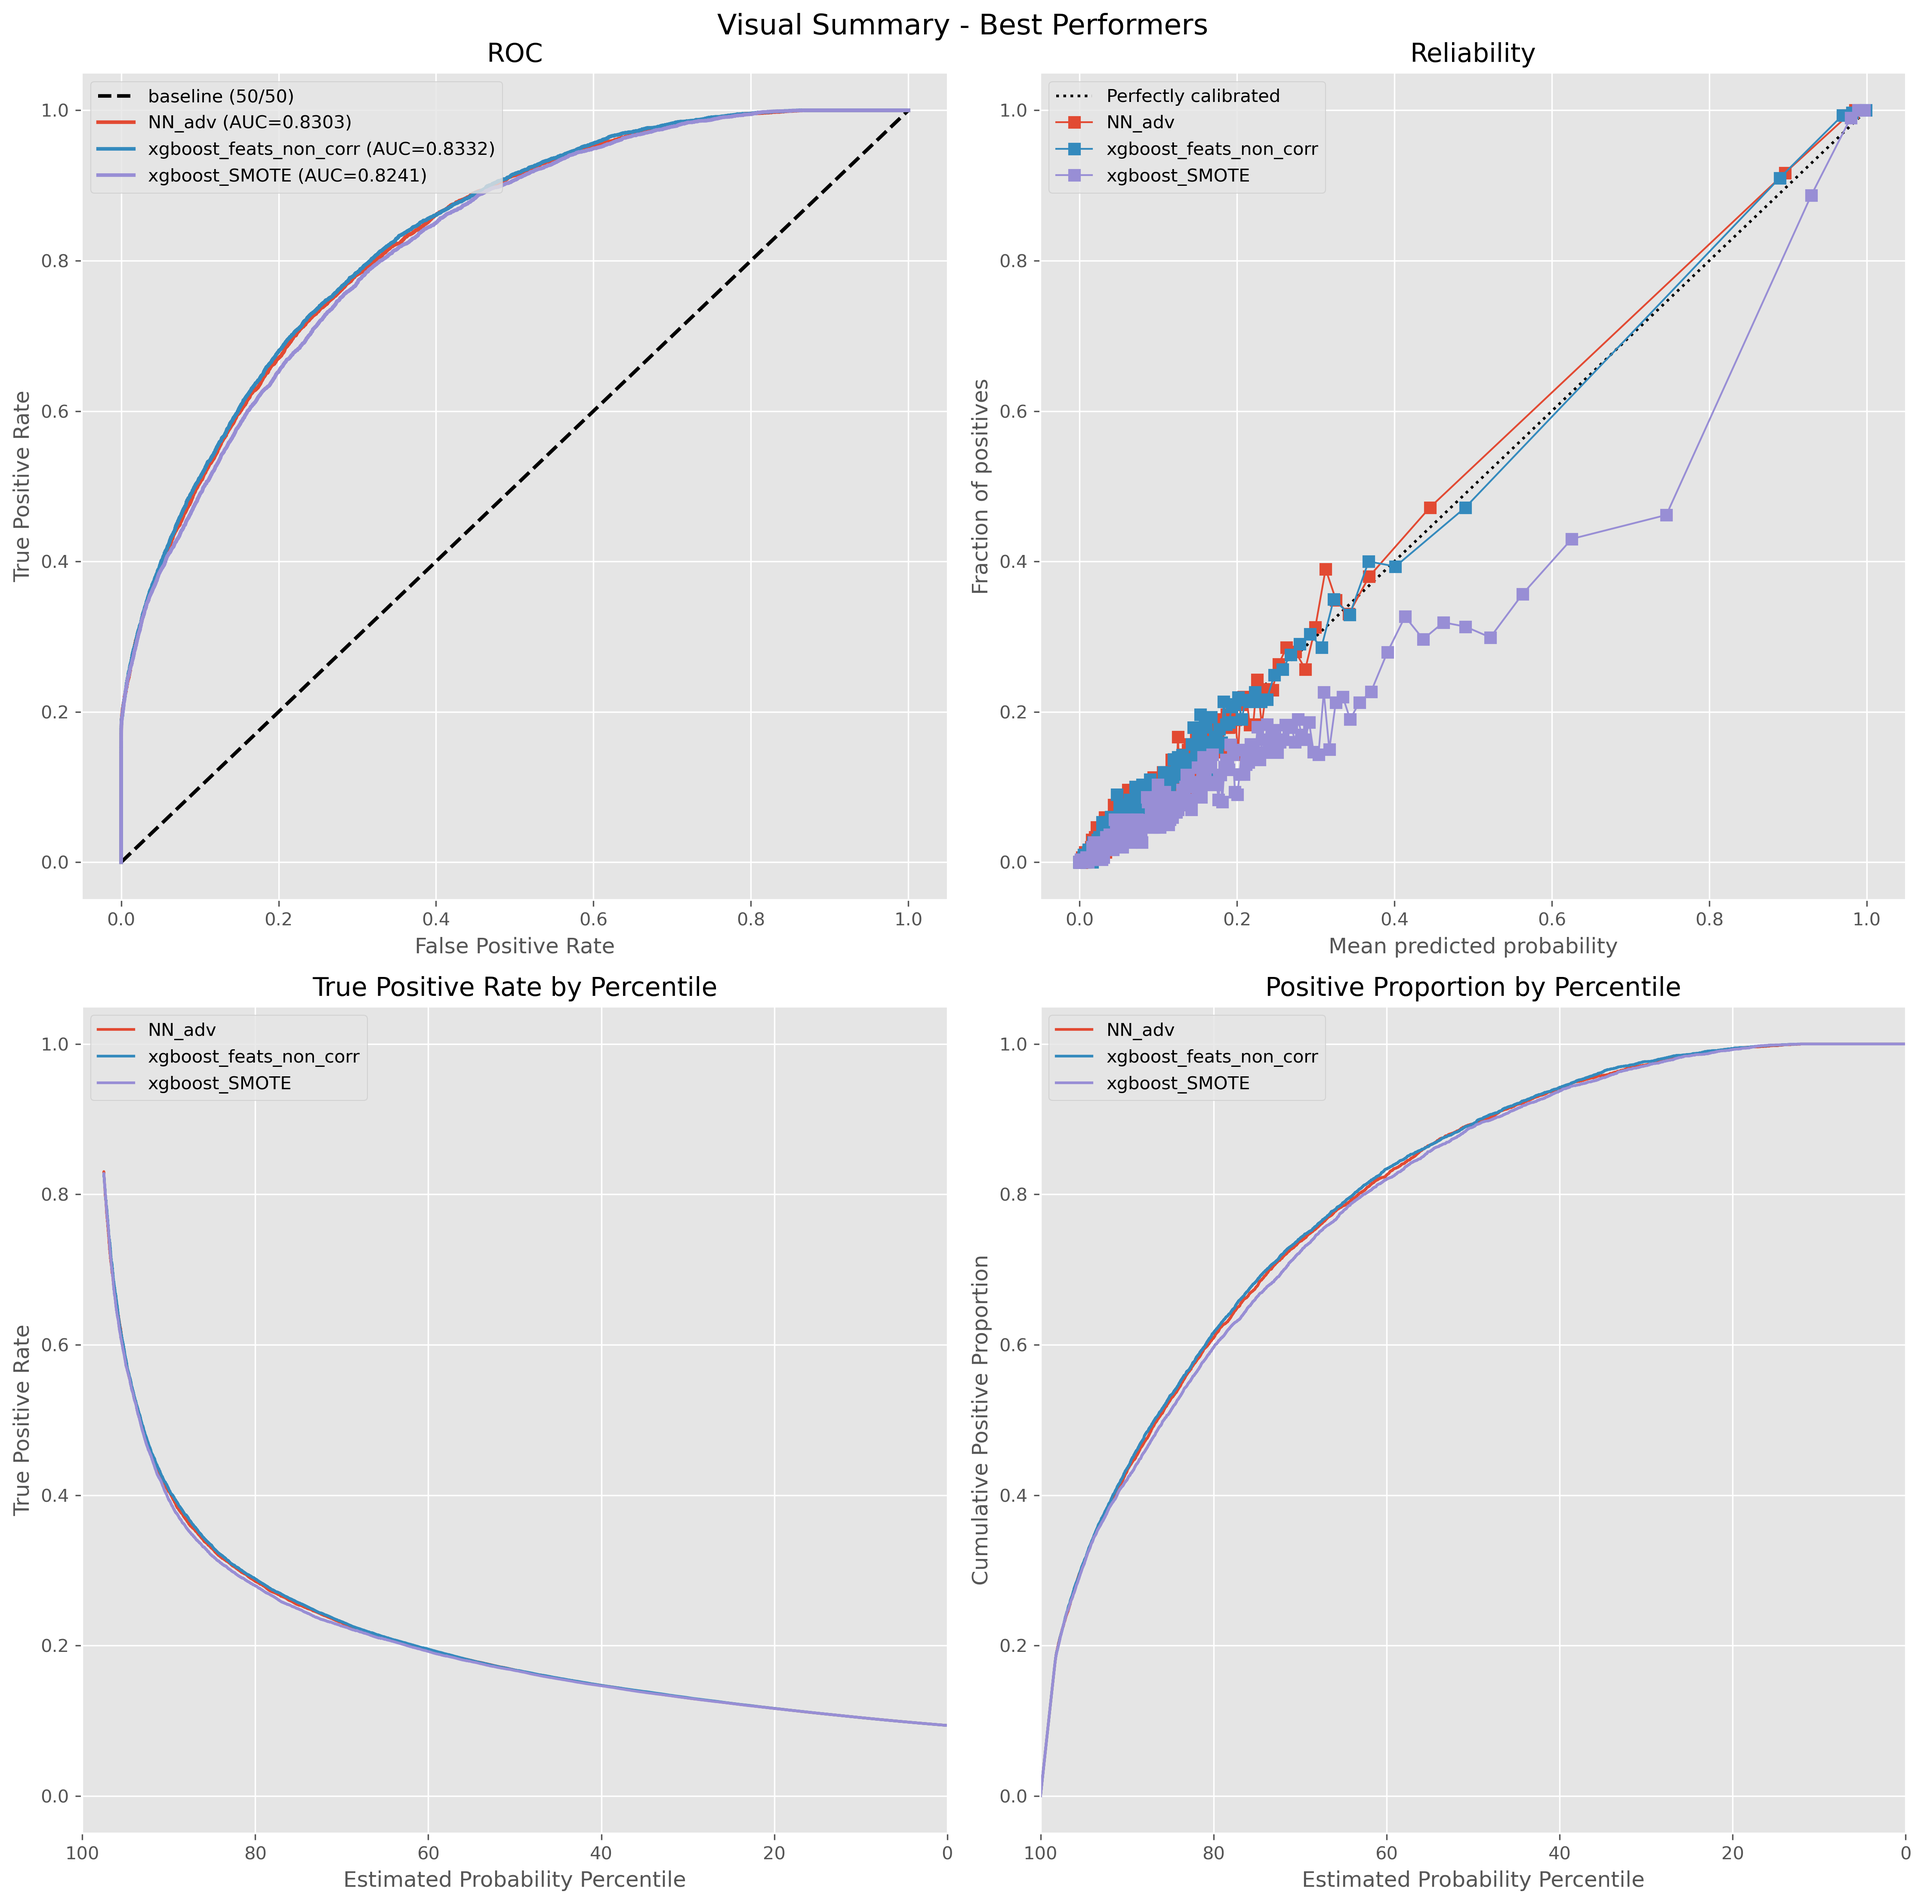
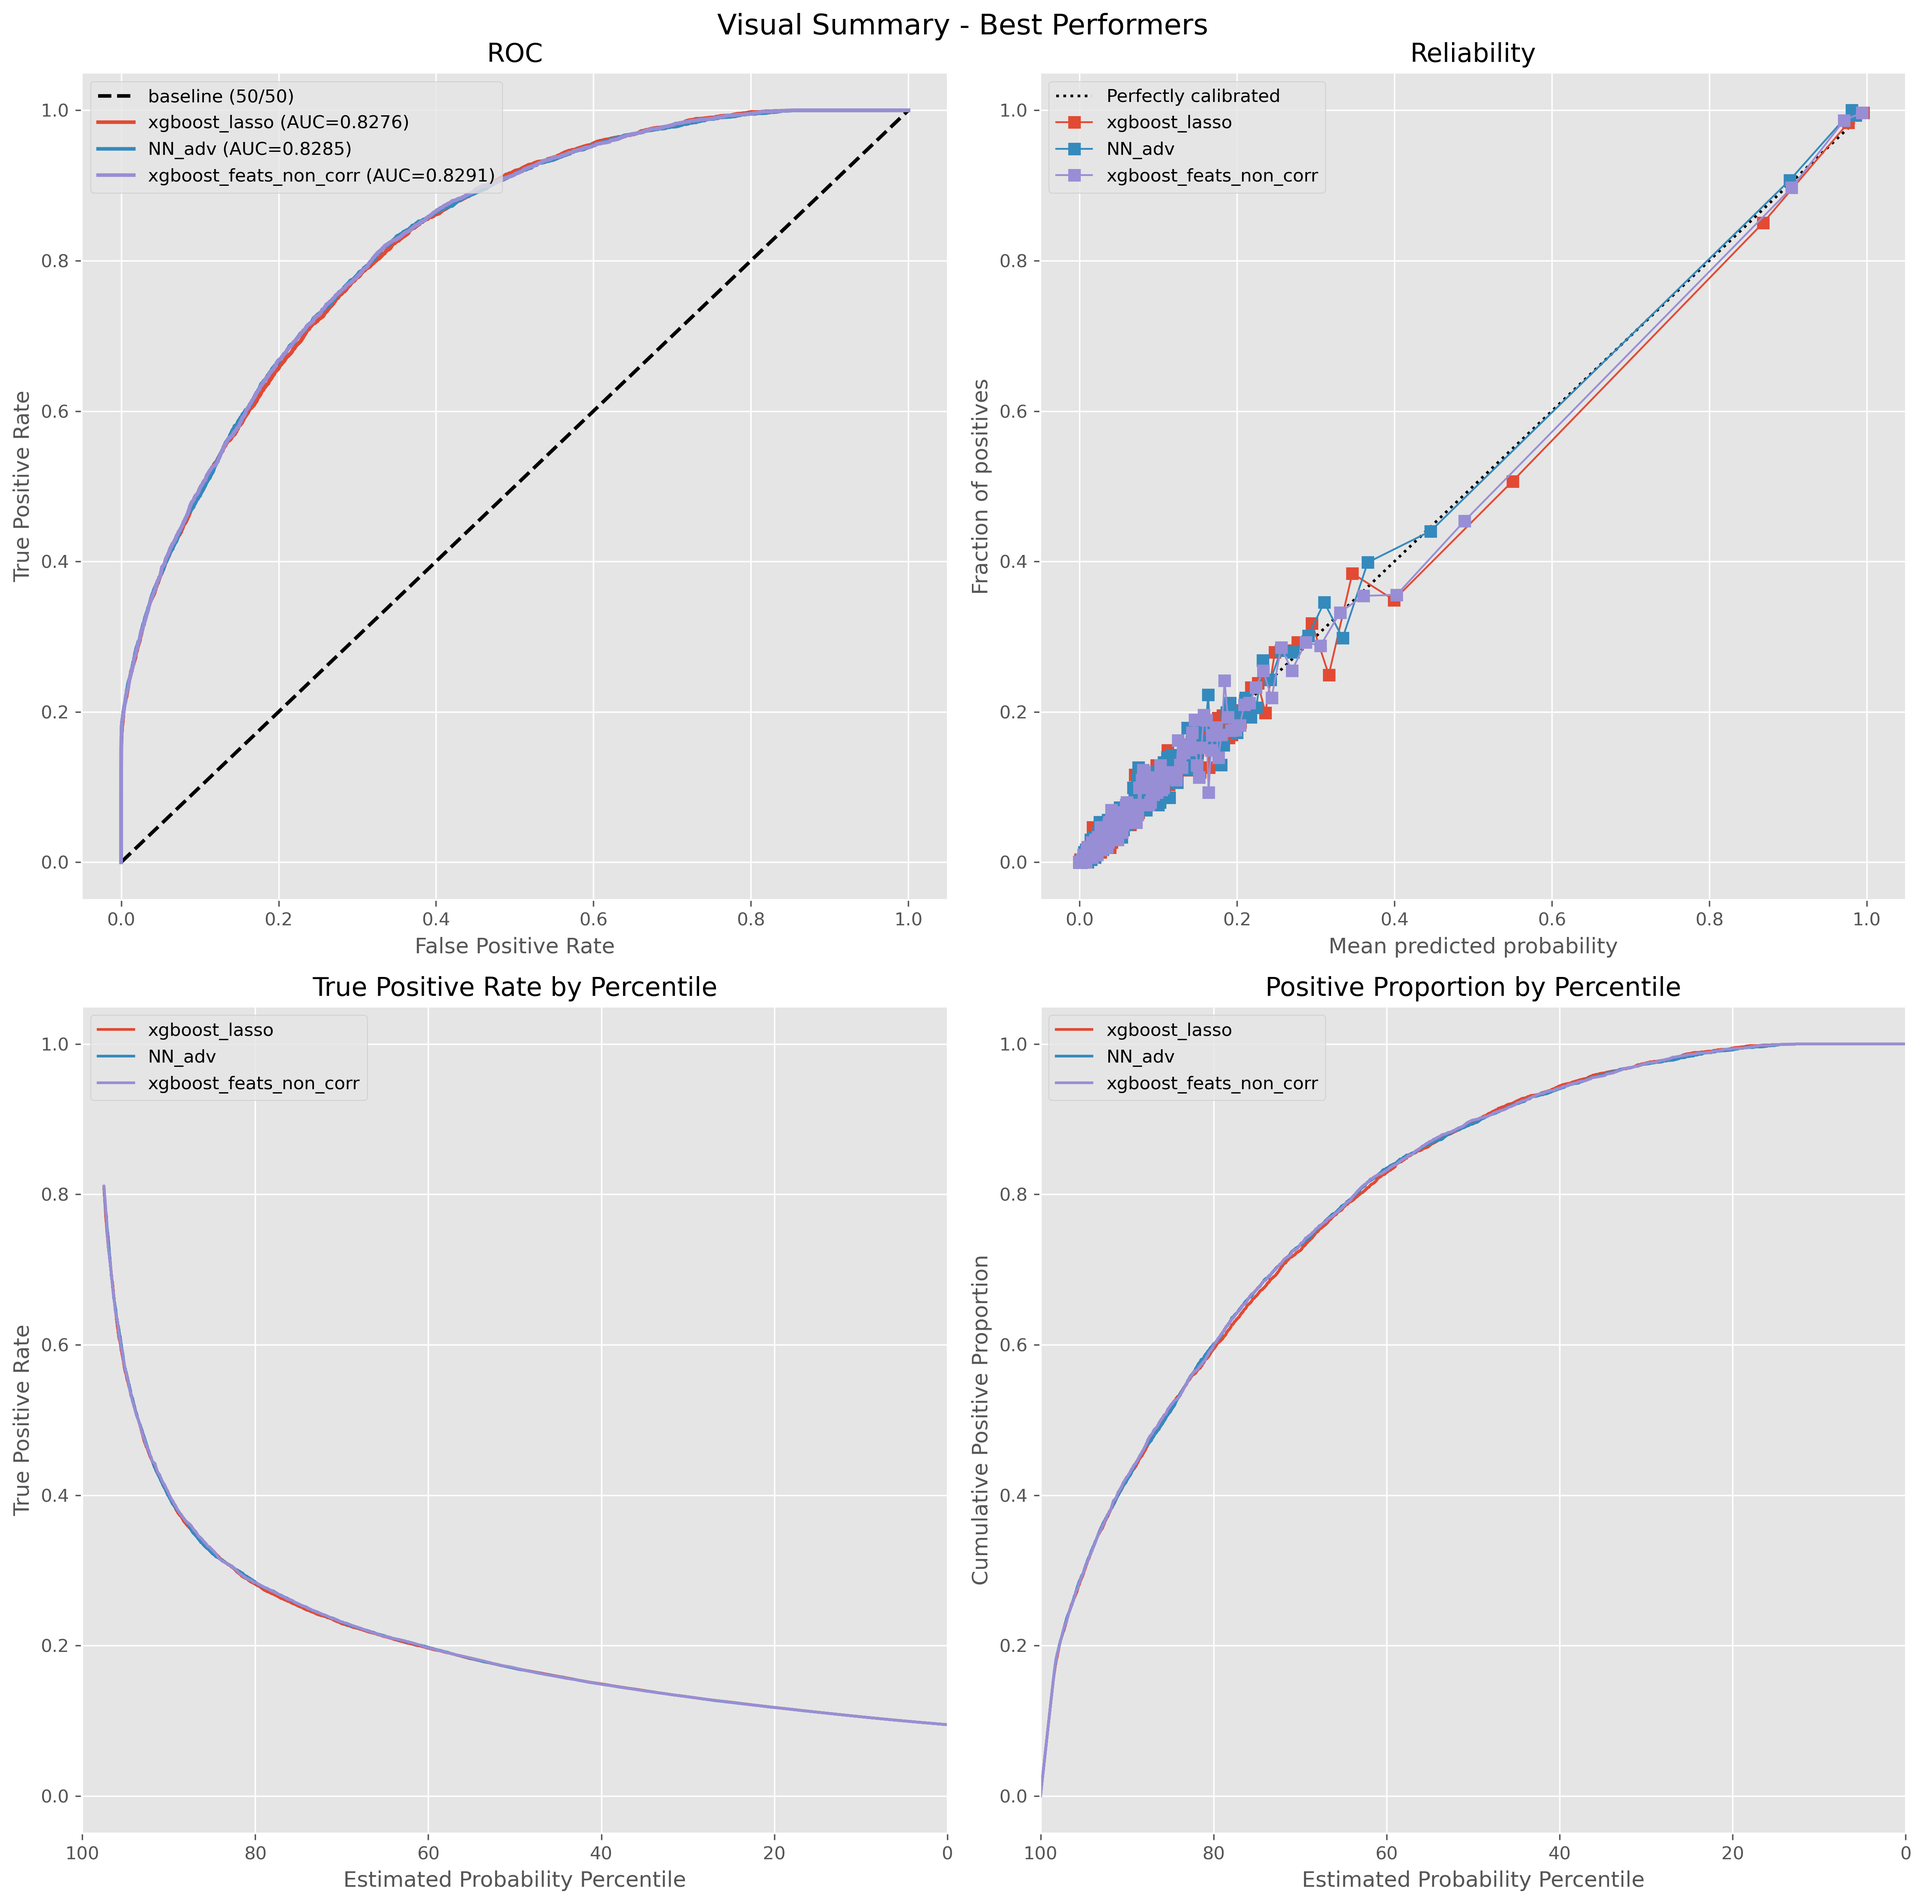
add test set figures and more figures consistency

diff --git a/_posts/2021-11-27-milestone-2.md b/_posts/2021-11-27-milestone-2.md
@@ -233,7 +233,6 @@ The Lasso method selects features based on penalizing and reducing the correspon
 - `is_rebound`
 - `rebound_angle`
 - `is_empty_net`
-- `prev_event_x_coord`
 - `shot_Backhand`
 - `shot_Tip-In`
 - `shot_Wrist Shot`
@@ -350,7 +349,7 @@ The Synthetic Minority Oversampling Technique (SMOTE) was employed to address th
 
 A logistic regression model and a XGBoost model were used to evaluate the effect of the SMOTE method. The feature set that underwent oversampling was the non-highly-correlated feature set established above. The two models trained on the resulting oversampled data were named `lr_SMOTE` and `xgboost_SMOTE`.
 
-The prediction results made by the two models were plotted on the classifier quality chart for comparative performance evaluation. Other than the reliability chart, the remaining charts show that both models were able to achieve a high AUC score and had a comparable performance. The reliability chart shows that the `xgboost_SMOTE` model to be the superior model as it was more aligned with the perfectly calibrated line.
+The prediction results on the validation set made by the two models were plotted on the classifier quality chart for comparative performance evaluation. Other than the reliability chart, the remaining charts show that both models were able to achieve a high AUC score and had a comparable performance. The reliability chart shows that the `xgboost_SMOTE` model to be the superior model as it was more aligned with the perfectly calibrated line.
 
 ![SMOTE Performance](/Images/m2_q6_SMOTE_performance.png)
 *See Appendix for Comet.ml links*
@@ -380,30 +379,63 @@ The three logistic regression models, the best XGBoost model, and the best overa
 
 The test set prediction accuracy and AUC value for the regular season games matched results obtained from the validation set for all five models. As shown below, the classifier quality charts confirm that there was no significant variation in model performance. Both the XGBoost models had comparable performance and both outperformed the remaining models. As seen previosuly, the logistic regression model trained on distance and angle achieved the same performance as the logistic regression model trained on distance only. The logistic regression model trained on angle only remained to be the worst performing model. As a result, it can be concluded that the validation set is a good representation of the general data.
 
-|                                        | <u>Accuracy</u> | <u>AUC</u> |
+
+|   <u>Model Name</u>          | <u>Accuracy</u> | <u>AUC</u> |
+|:-------------------|:------------------:|:---------------:|
+| **LR_angle_only**             |       ??.?     |      ??     |
+| **LR_distance_only**          |       ??.?     |      ??     |
+| **LR_distance_and_angle**     |       ??.?     |      ??     |
+| **xgboost_lasso**             |       ??.?     |      ??     |
+| **xgboost_SHAP**              |       ??.?     |      ??     |
+| **xgboost_feats_non_corr**    |       ??.?     |      ??     |
+| **NN_adv**                    |       ??.?     |      ??     |
+| **xgboost_SMOTE**             |       ??.?     |      ??     |
+| **lr_SMOTE**                  |       ??.?     |      ??     |
+| **lr_all_feats**              |       ??.?     |      ??     |
+| **lr_non_corr_feats**         |       ??.?     |      ??     |
+
+
+<!-- |                                        | <u>Accuracy</u> | <u>AUC</u> |
 |:-------------------|:------------------:|:---------------:|
 | **Logistic Regression Distance Only**      |       90       |      0.70     |
 | **Logistic Regression Angle Only**         |       90       |      0.51     |
 | **Logistic Regression Distance and Angle** |       90       |      0.70     |
 | **XGBoost Model with SHAP**                |       92       |      0.83     |
-| **XGBoost Model with Non Correlated Features**      |       92       |      0.84     |
+| **XGBoost Model with Non Correlated Features**      |       92       |      0.84     | -->
 
 
-![Regular Season Test Set](/Images/M2_ET_Q1_M2_ET_Q1_Regular_Testset.png)
+![Regular Season Test Set](/Images/m2-q7-regular-games.png)
 
 ## Model Evaluation For the 2019/20 Post Season Games 
 
 The model performance results evaluated using the postseason games were similar to the results obtained through the regular season games. The table below shows that there was only a minor increase in prediction accuracy and the AUC values remained the same. The curves in the classifier quality charts generated using the postseason game predictions appear to be noisier than the curves in the previous charts. This observed granularity is attributed to the lower number of games in the dataset. One noticeable difference can be observed between the two reliability charts. While the general shape of the curves remained similar, both XGBoost models were unable to produce any probabilities above 0.6. This is also attributed to the lower number of samples available since the reliability chart bins the probabilities to produce a more meaningful representation. The test set suggests that all five models were not overfitted and are generalized predictors of the dataset.
 
-|                                        | <u>Accuracy</u> | <u>AUC</u> |
+
+|   <u>Model Name</u>          | <u>Accuracy</u> | <u>AUC</u> |
+|:-------------------|:------------------:|:---------------:|
+| **LR_angle_only**             |       ??.?     |      ??     |
+| **LR_distance_only**          |       ??.?     |      ??     |
+| **LR_distance_and_angle**     |       ??.?     |      ??     |
+| **xgboost_lasso**             |       ??.?     |      ??     |
+| **xgboost_SHAP**              |       ??.?     |      ??     |
+| **xgboost_feats_non_corr**    |       ??.?     |      ??     |
+| **NN_adv**                    |       ??.?     |      ??     |
+| **xgboost_SMOTE**             |       ??.?     |      ??     |
+| **lr_SMOTE**                  |       ??.?     |      ??     |
+| **lr_all_feats**              |       ??.?     |      ??     |
+| **lr_non_corr_feats**         |       ??.?     |      ??     |
+
+
+<!-- |                                        | <u>Accuracy</u> | <u>AUC</u> |
 |:-------------------|:------------------:|:---------------:|
 | **Logistic Regression Distance Only**      |       91       |      0.71     |
 | **Logistic Regression Angle Only**         |       91       |      0.51     |
 | **Logistic Regression Distance and Angle** |       91       |      0.71     |
 | **XGBoost Model with SHAP**                |       93       |      0.83     |
-| **XGBoost Model with Non Correlated Features**      |       93       |      0.84     |
+| **XGBoost Model with Non Correlated Features**      |       93       |      0.84     | -->
 
-![Post Season Test Set](/Images/M2_ET_Q1_M2_ET_Q2_Post_Testset.png)
+
+![Post Season Test Set](/Images/m2-q7-post-games.png)
 
 # Appendix - Comet.ml Links
 
@@ -420,8 +452,10 @@ The model performance results evaluated using the postseason games were similar 
 
 
 ## Our Best Shot Experiments!
-- **[`lr_SMOTE`](https://www.comet.ml/tim-k-lee/ift6758-hockey/7aaa91b314c945fdb12b3103baaf81ac)**: the logistic regression model trained on data processed using the SMOTE method
-- **[`xgboost_SMOTE`](https://www.comet.ml/tim-k-lee/ift6758-hockey/04b819114d484137a202b13cba10ce45)**: the XGBoost model trained on data processed using the SMOTE method
+- **[`lr_all_feats`](https://www.comet.ml/tim-k-lee/ift6758-hockey/4f67f15d5fec4b39b1efae8e31e24c72)**: the logistic regression model trained on all the generated features from Feature Engineering 2 part
+- **[`lr_non_corr_feats`](https://www.comet.ml/tim-k-lee/ift6758-hockey/c0f87c0971fd4cc39431b5e5d53347c9)**: the logistic regression model trained on the non-highly correlated features
+- **[`lr_SMOTE`](https://www.comet.ml/tim-k-lee/ift6758-hockey/7aaa91b314c945fdb12b3103baaf81ac)**: the logistic regression model trained on the non-highly correlated features oversampled using the SMOTE method
+- **[`xgboost_SMOTE`](https://www.comet.ml/tim-k-lee/ift6758-hockey/04b819114d484137a202b13cba10ce45)**: the XGBoost model trained on the non-highly correlated features oversampled using the SMOTE method
 - **[`xgboost_lasso`](https://www.comet.ml/tim-k-lee/ift6758-hockey/98ccf2eda8944da6b94e8eac3fb56769)**: the XGBoost model that was trained on selected features by Lasso method
 - **[`NN_adv`](https://www.comet.ml/tim-k-lee/ift6758-hockey/28f4a2c65ff8481f8bad834927a7513a)**: the neural network model trained on the advance feature set
 - **[`xgboost_feats_non_corr`](https://www.comet.ml/tim-k-lee/ift6758-hockey/45fcfdff52d842e097135197995e985a)** the XGBoost model that was trained on all the non-highly-correlated features
